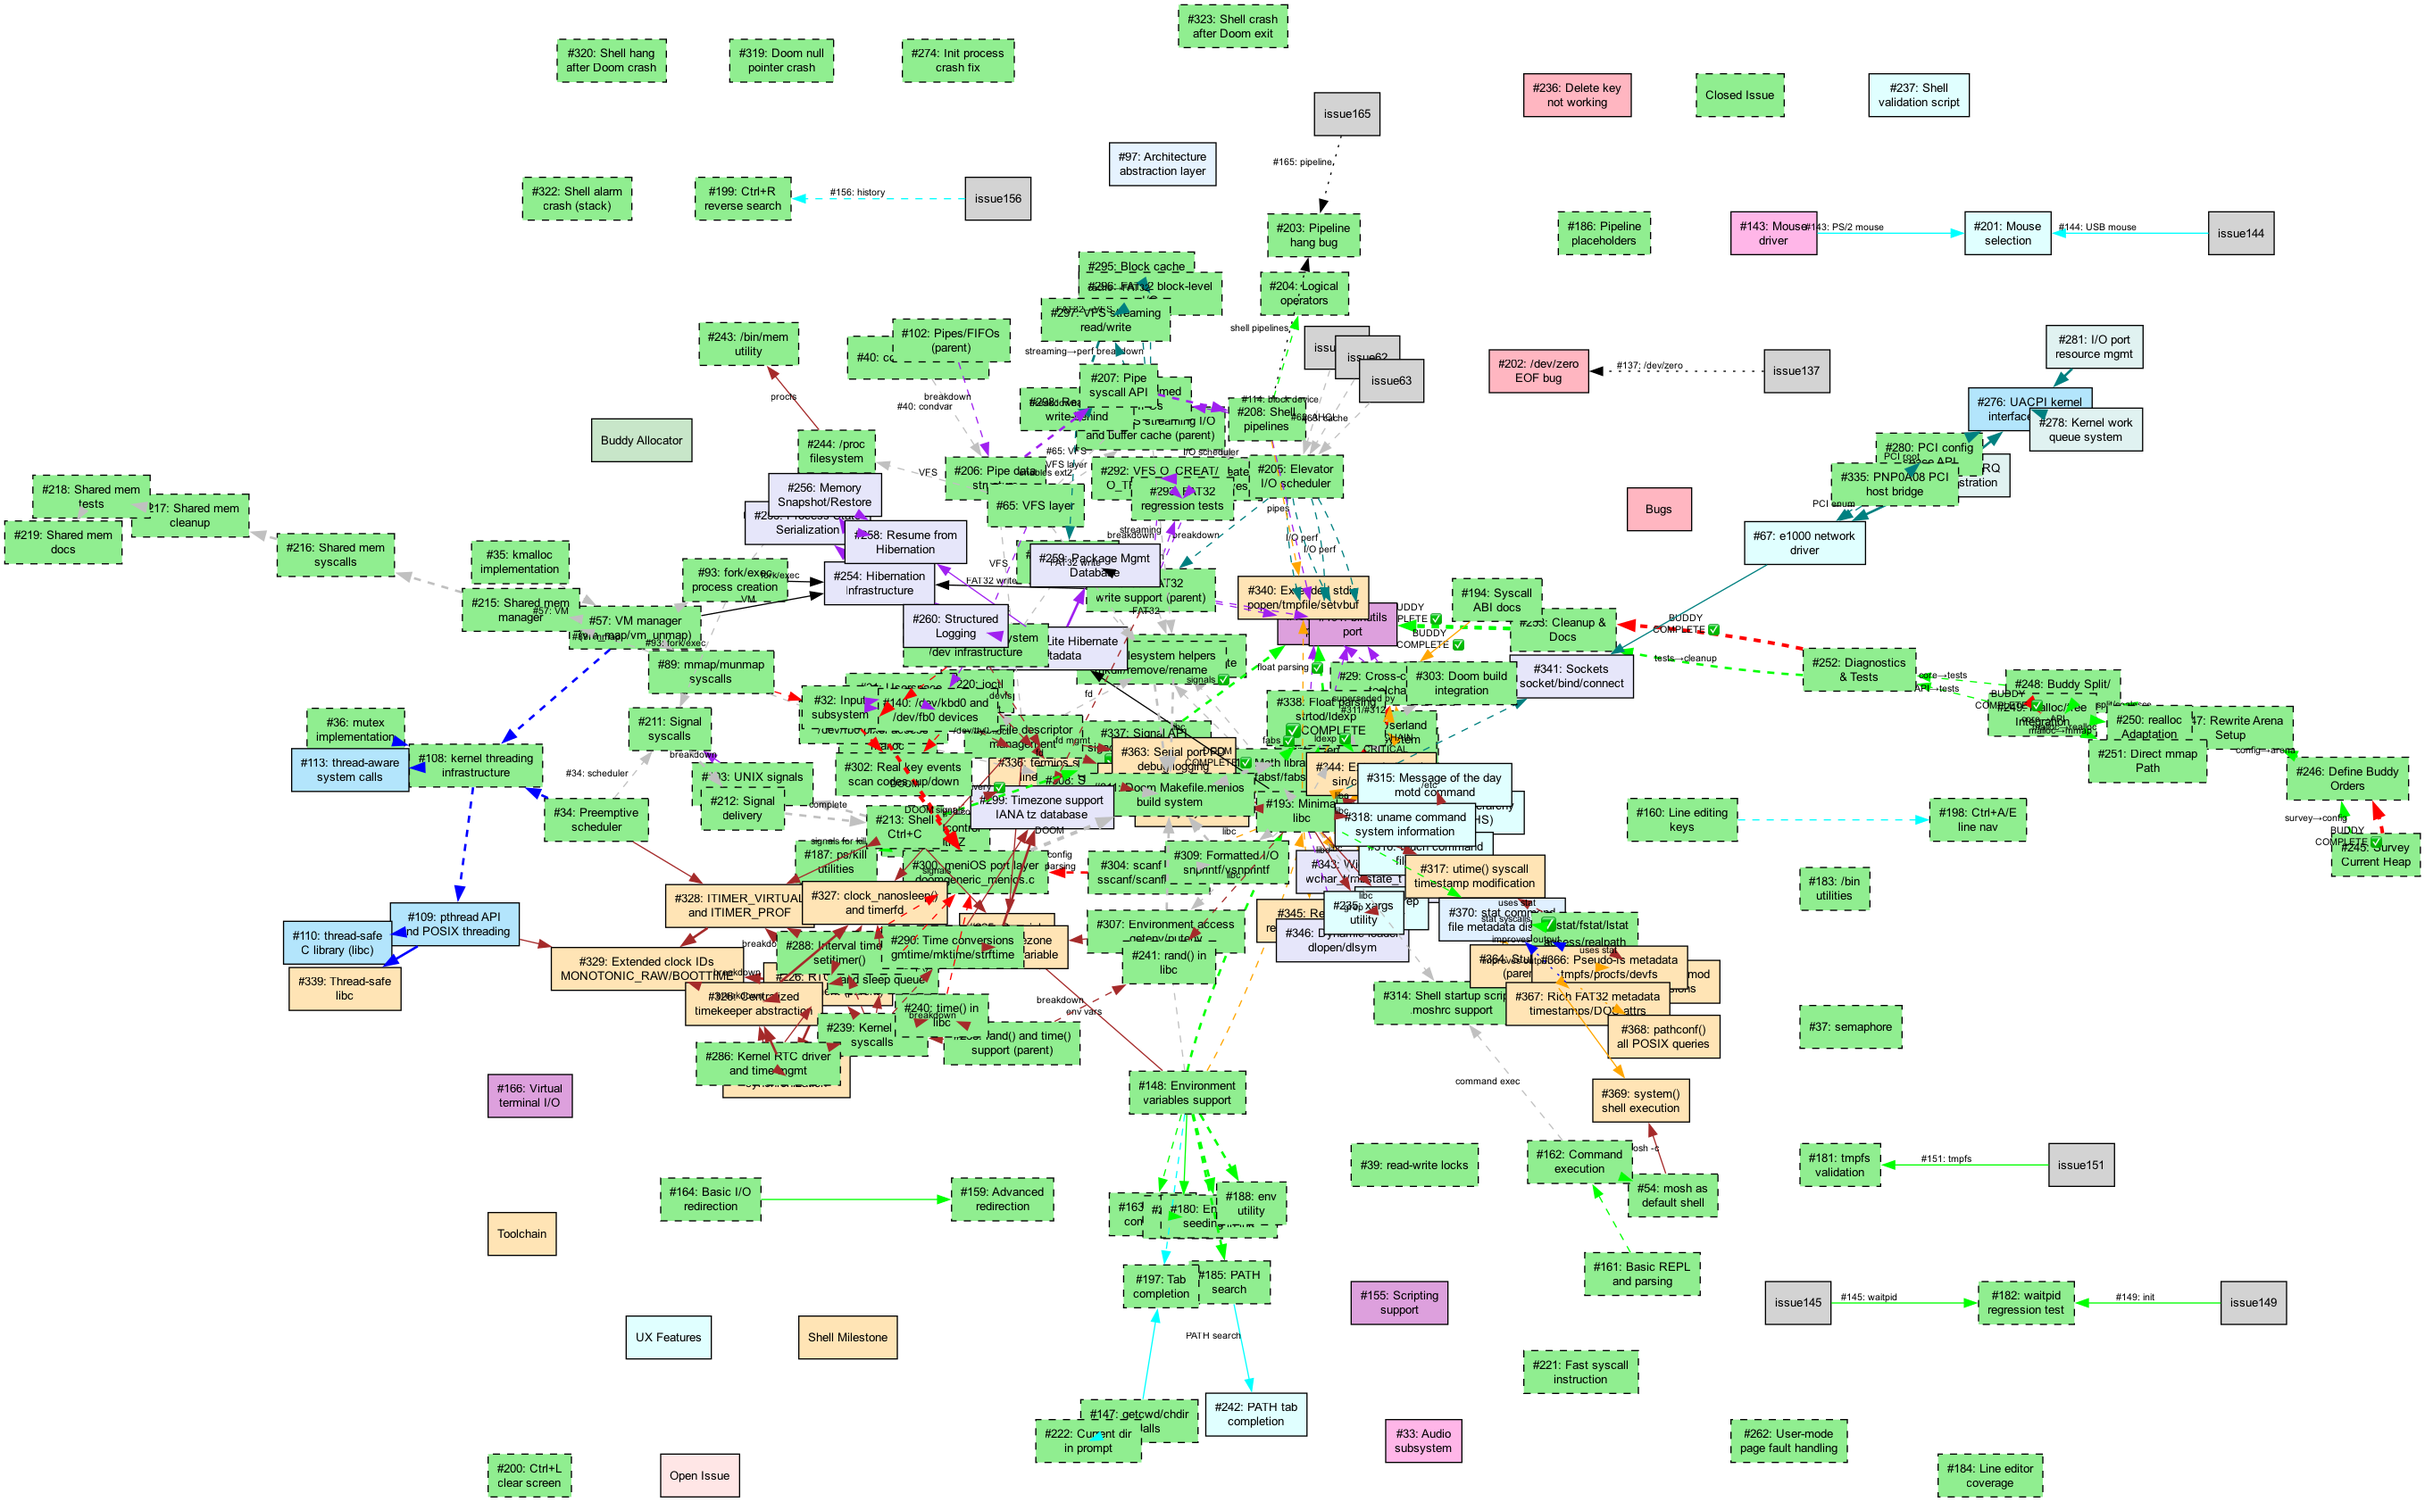
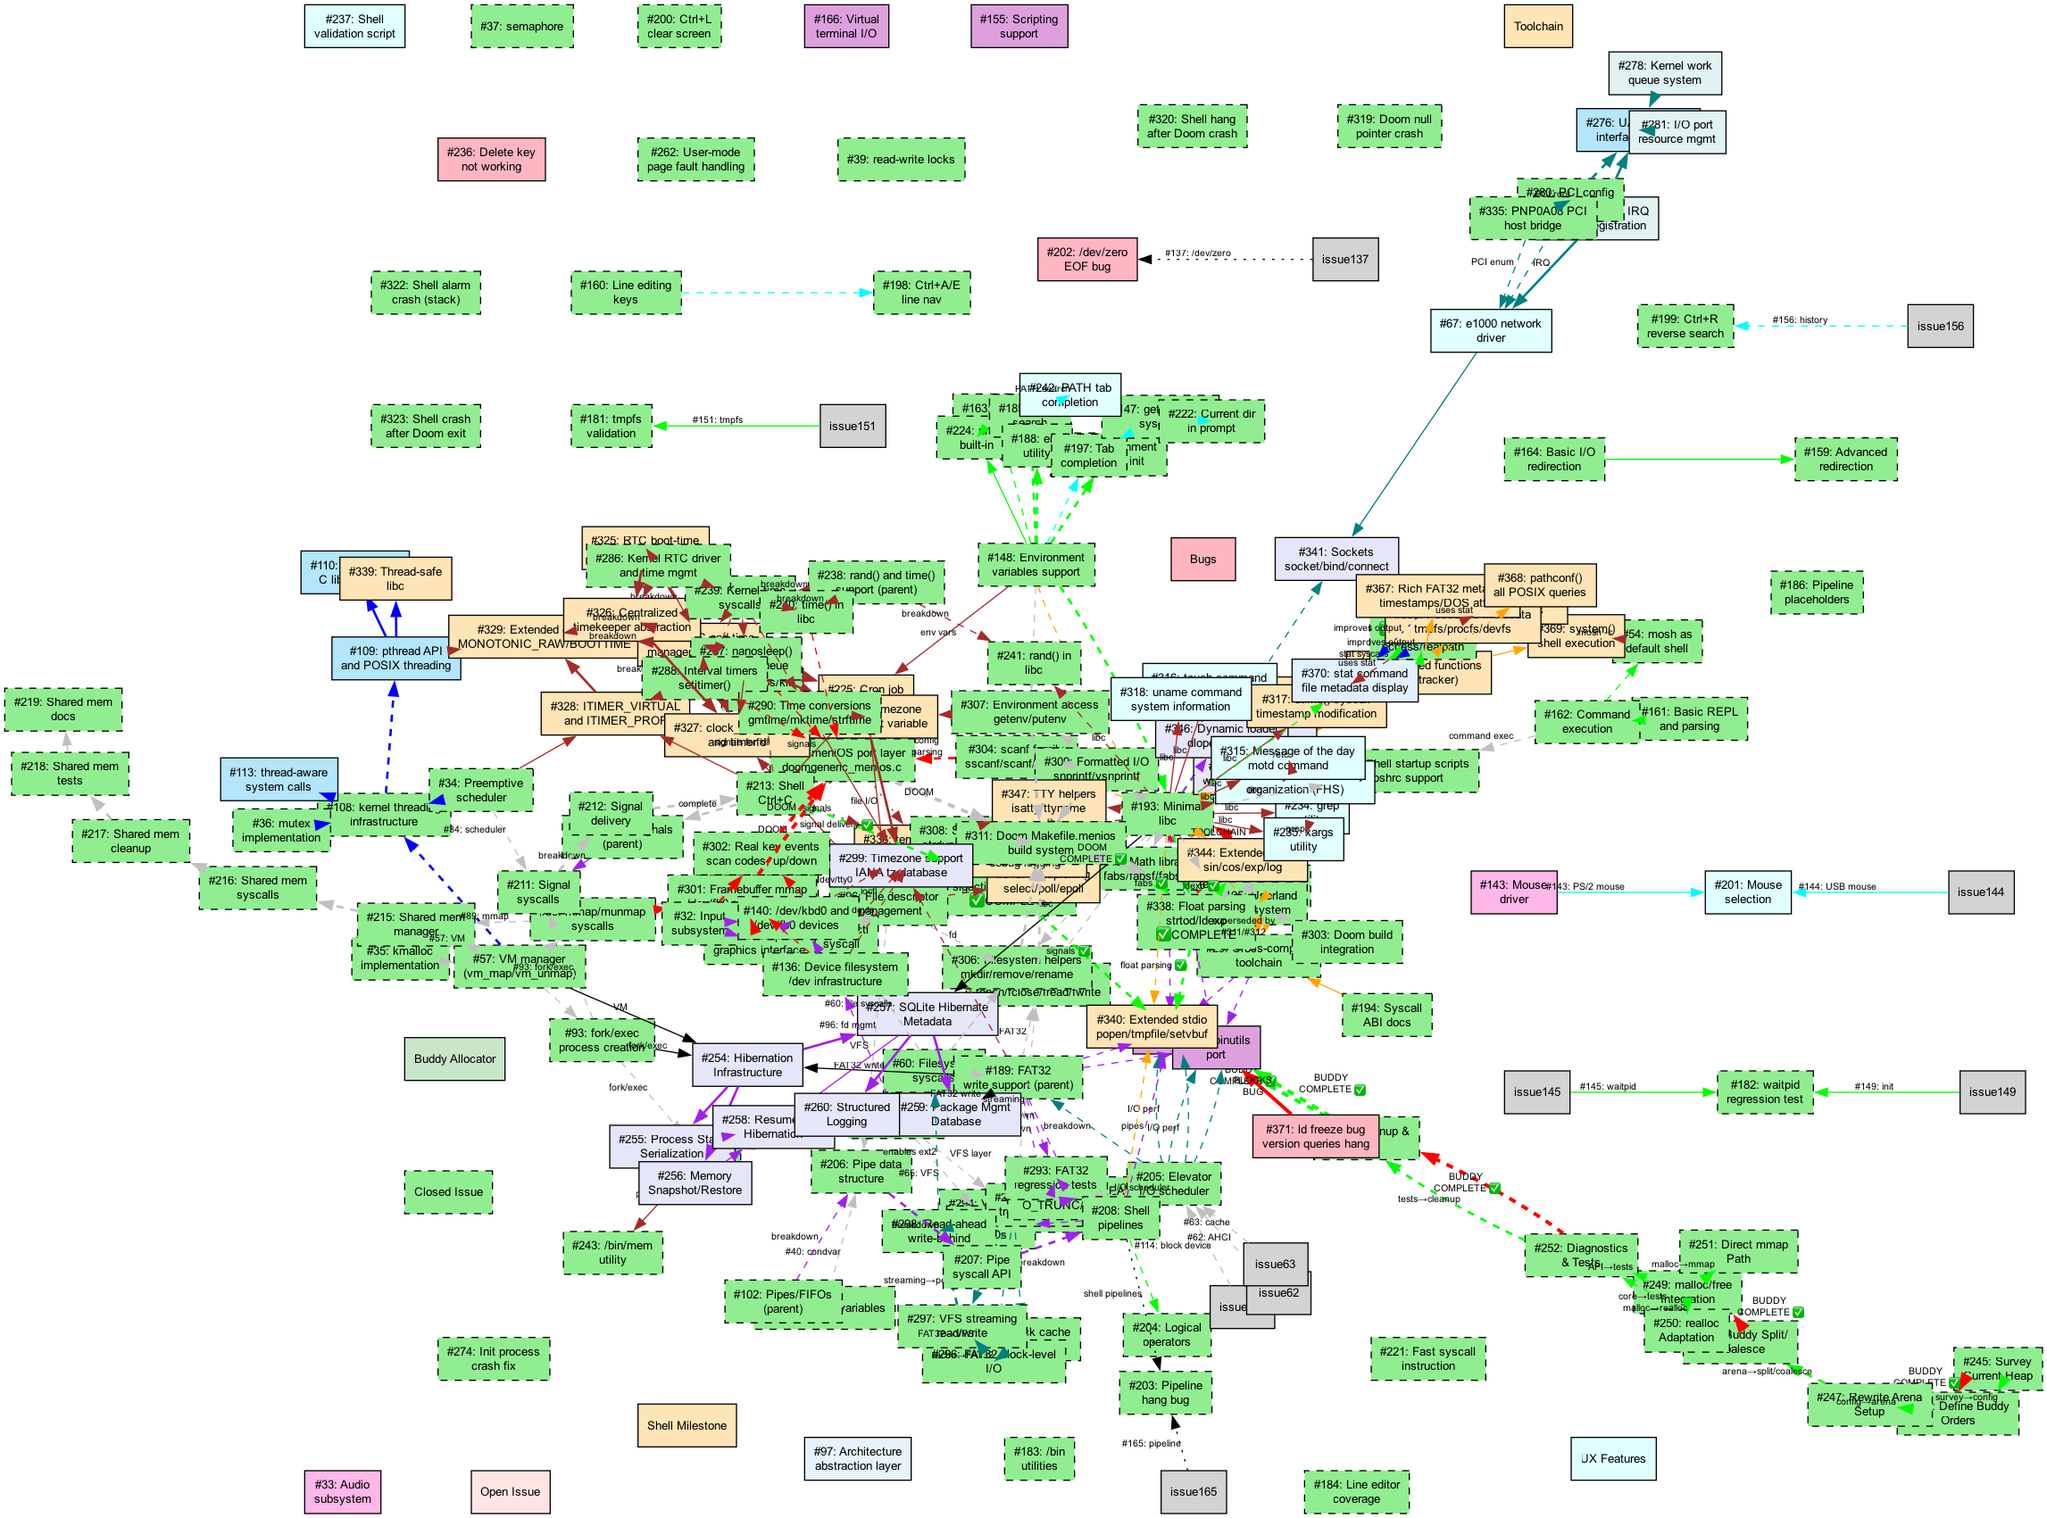
Updated the docs

diff --git a/docs/road/road_to_gcc.md b/docs/road/road_to_gcc.md
@@ -117,22 +117,29 @@ GNU [binutils 2.45](https://www.gnu.org/software/binutils/) has also been staged
 - ✅ #205 (I/O scheduler) - COMPLETE
 - **🎉 ALL DEPENDENCIES MET - ZERO BLOCKERS!**
 
-**Status:** 🔄 **BUILD COMPLETE - TESTING IN PROGRESS**
+**Status:** ⚠ **BUILD COMPLETE - BLOCKED BY BUG #371**
 - ✅ Successfully built under `DOCKER_IMAGE=menios:trunk`
 - ✅ Integrated into disk image (`make userland` + `make build`)
 - ✅ Binaries staged in `/bin`: as, ld, objdump, nm, ar, ranlib, touch
-- 🔄 Integration testing: Need to boot meniOS and verify each tool works
-- 📝 Documentation pending: Usage examples, sanity check scripts
-- ❓ Decision needed: Include remaining binutils (strip, size, strings, etc.)?
+- ❌ **BLOCKED:** `ld` crashes/freezes on version queries (#371)
+  - `ld -V` and `ld --version` freeze indefinitely in meniOS
+  - Works correctly on Linux (immediate return)
+  - Blocks all ld testing and validation
+- 🔄 Integration testing blocked until #371 is resolved
+- 📝 Documentation complete: README updated with usage examples
+
+**Blocker:**
+- **#371:** Bug: ld crashes/freezes on simple version queries
 
 **Next Steps:**
-1. Boot meniOS and run integration tests for each binary
-2. Create simple workflow tests (assemble → link → inspect)
-3. Document usage and create regression test scripts
-4. Decide on remaining binutils binaries
-5. Close #191 once verified
+1. ⚠ Fix #371 (ld freeze bug)
+2. Test if other binutils tools (`as`, `objdump`, `nm`) have similar issues
+3. Once #371 is resolved, run integration tests for each binary
+4. Create simple workflow tests (assemble → link → inspect)
+5. Create regression test scripts
+6. Close #191 once verified
 
-**Timeline Estimate:** Testing & docs: 1-2 weeks
+**Timeline Estimate:** Bug fix: TBD, then testing & verification: 1-2 weeks
 
 ## 🛣 **Critical Path to Cross-Compilation**
 

diff --git a/docs/DEPENDENCY_DIAGRAMS.md b/docs/DEPENDENCY_DIAGRAMS.md
@@ -8,21 +8,25 @@ The meniOS project has grown to over 100+ tracked issues with complex interdepen
 
 **Focus:** The critical path to TCC/GCC native compilation
 
-**Size:** 174KB (compact and readable)
+**Size:** 237KB (compact and readable)
 
 **Shows:**
 - Foundation issues (all complete ✅)
-- TCC blockers: #337 (Signal API), #338 (Float parsing)
-- TCC port: #190
-- binutils port: #191
-- Timeline: 19-26 weeks to TCC
+- TCC blockers: #337 (Signal API ✅), #338 (Float parsing ✅) - **COMPLETE!**
+- TCC port: #190 - **READY TO START!**
+- binutils port: #191 - **BLOCKED BY #371**
+- Bug blocker: #371 (ld freeze) - **CRITICAL**
+- Timeline: TCC ready to start, binutils blocked pending bug fix
 
 **Use this for:**
 - Understanding what's blocking native compilation
 - Prioritizing toolchain work
 - Tracking progress to TCC milestone
 
-**Key Insight:** Only 2 issues block TCC (#337, #338), both are libc work with clear timelines.
+**Key Insights:**
+- ✅ TCC has zero blockers - ready to start!
+- ⚠ binutils build complete but blocked by ld freeze bug (#371)
+- 🚨 #371 is the critical blocker for native compilation
 
 ---
 
@@ -65,7 +69,8 @@ The meniOS project has grown to over 100+ tracked issues with complex interdepen
 - ✅ #338 (Float parsing) - CLOSED - TCC blockers resolved! 🎉
 - ⚠ #364 (Stubbed functions) - Partially complete (stat family working)
 - 🆕 #370 (stat command) - NEW - Userland tool to display file metadata
-- ✅ #191 (binutils) - Build complete, testing in progress
+- ✅ #191 (binutils) - Build complete, **BLOCKED BY #371**
+- 🚨 #371 (ld freeze bug) - NEW - **CRITICAL BLOCKER** for binutils testing
 
 **Recently Closed (17 issues):**
 - #58, #137, #138, #145, #149, #151, #152, #153, #155, #167, #168, #226, #284, #285, #316, #337, #338

diff --git a/docs/ISSUE_DEPENDENCY_ANALYSIS.md b/docs/ISSUE_DEPENDENCY_ANALYSIS.md
@@ -371,22 +371,28 @@ These issues form the backbone of the system and should be prioritized:
 ### Phase 6: Native Compilation (Long Term)
 **Goal**: Compile on meniOS itself
 - **#190**: TCC port - ✅ **READY TO START** (all blockers resolved: #337 ✅, #338 ✅)
-- **#191**: binutils port - 🔄 **BUILD COMPLETE, TESTING IN PROGRESS**
+- **#191**: binutils port - ⚠ **BUILD COMPLETE, BLOCKED BY #371**
   - ✅ Successfully built and integrated into disk image
   - ✅ Binaries staged: as, ld, objdump, nm, ar, ranlib, touch
-  - 🔄 Integration testing pending
-  - 📝 Documentation and sanity checks needed
+  - ❌ **BLOCKED:** ld crashes/freezes on version queries (#371)
+  - 🔄 Integration testing blocked until bug is fixed
+  - ✅ Documentation complete (README updated)
+- **#371**: ld freeze bug - 🚨 **CRITICAL BLOCKER**
+  - `ld -V` and `ld --version` freeze in meniOS (work on Linux)
+  - Blocks all linker testing and validation
+  - Must be fixed before #191 can complete
 - Possibly GCC port (future)
 
 **Timeline**:
 - TCC: 4-6 weeks (ready to start!)
-- binutils testing & docs: 1-2 weeks (build complete)
+- binutils bug fix (#371): TBD
+- binutils testing & verification: 1-2 weeks (after #371 fixed)
 - Full native compilation: 6-12 months total
 
 **Status**:
 - ✅ All TCC blockers resolved (#337, #338 complete)
-- 🔄 binutils built and awaiting testing
-- 🎉 Major progress toward native compilation!
+- ⚠ binutils built but blocked by critical bug (#371)
+- 🚨 ld freeze must be debugged and fixed
 
 ## 🔴 Current Blocking Relationships
 
